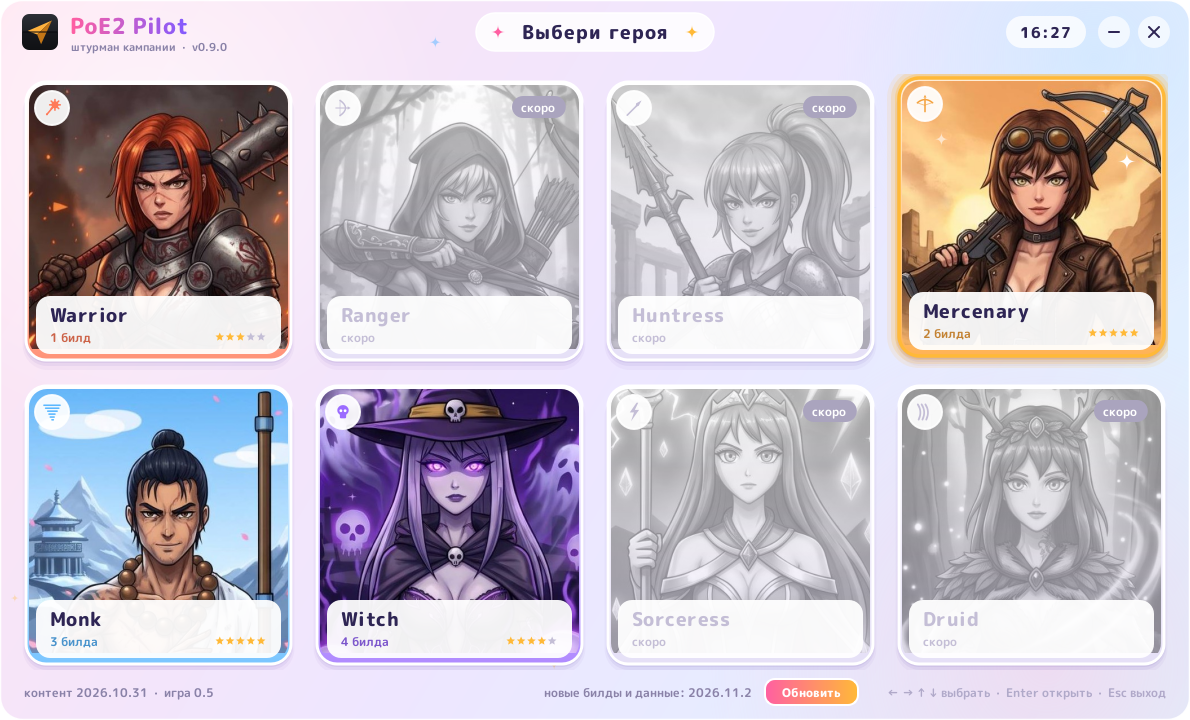
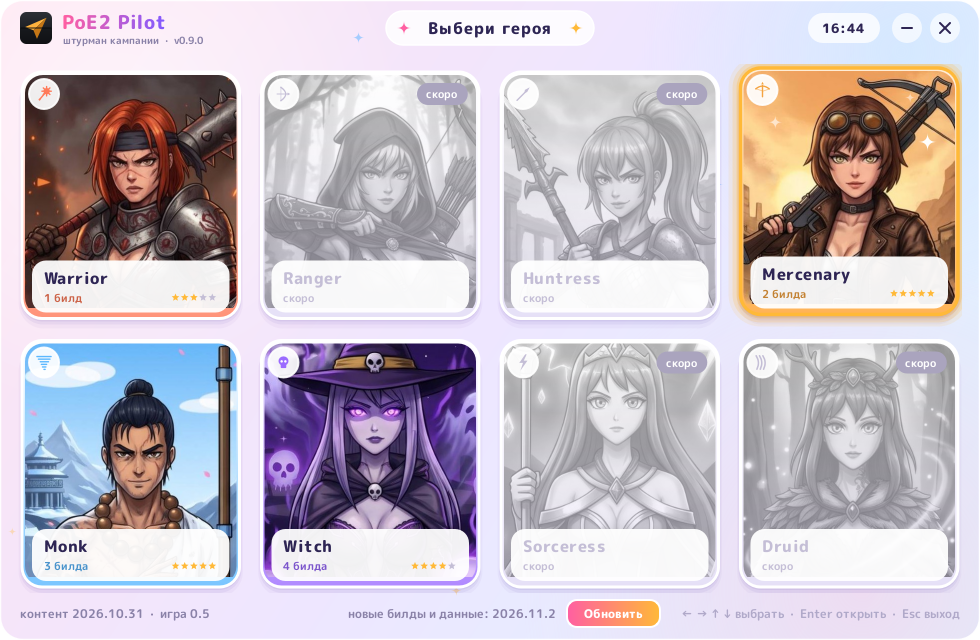
feat(launcher): smaller start window, 980x640 instead of 1190x720
Build card, list rows, title bar, start button and hero plates scaled down
to fit; minimum size 900x640.

diff --git a/src/pilot/launcher/board.py b/src/pilot/launcher/board.py
@@ -28,15 +28,15 @@ from pilot.catalog import Catalog, Entry
 from . import style as S
 from .heroes import HeroPicker, badge, class_art
 
-ROW_H = 84
-ROW_GAP = 10
-HEAD_H = 54
+ROW_H = 72
+ROW_GAP = 8
+HEAD_H = 48
 TWINKLE_MS = 90
 
 
 # ---------------------------------------------------------------- title bar
 class TitleBar(QWidget):
-    H = 64
+    H = 56
 
     def __init__(self, parent: QWidget):
         super().__init__(parent)
@@ -55,27 +55,27 @@ class TitleBar(QWidget):
 
     def _buttons(self) -> dict[str, QRectF]:
         r = self.width() - 20
-        return {"close": QRectF(r - 32, 16, 32, 32), "min": QRectF(r - 72, 16, 32, 32)}
+        return {"close": QRectF(r - 30, 13, 30, 30), "min": QRectF(r - 68, 13, 30, 30)}
 
     def paintEvent(self, _):
         p = QPainter(self)
         p.setRenderHint(QPainter.Antialiasing)
-        brand.draw_logo(p, QRectF(22, 14, 36, 36))
-        f = S.font(22, QFont.ExtraBold, 0.5)
+        brand.draw_logo(p, QRectF(20, 12, 32, 32))
+        f = S.font(19, QFont.ExtraBold, 0.5)
         path = QPainterPath()
-        path.addText(QPointF(70, 34), f, "PoE2 Pilot")
+        path.addText(QPointF(62, 29), f, "PoE2 Pilot")
         p.setPen(Qt.NoPen)
         p.setBrush(S.gradient(path.boundingRect(), S.PINK, QColor(130, 90, 255), horizontal=True))
         p.drawPath(path)
         p.setPen(S.DIM)
-        p.setFont(S.font(11.5, QFont.Bold))
-        p.drawText(QPointF(71, 51), f"штурман кампании  ·  v{__version__}")
+        p.setFont(S.font(10.5, QFont.Bold))
+        p.drawText(QPointF(63, 44), f"штурман кампании  ·  v{__version__}")
 
         if self.title:
-            tf = S.font(19, QFont.ExtraBold, 1)
+            tf = S.font(16.5, QFont.ExtraBold, 1)
             tw = QFontMetricsF(tf).horizontalAdvance(self.title)
-            pill = QRectF((self.width() - tw) / 2 - 46, 13, tw + 92, 38)
-            S.soft_card(p, pill, 19, QColor(255, 255, 255, 215), S.WHITE, 1.5, shadow=False)
+            pill = QRectF((self.width() - tw) / 2 - 42, 11, tw + 84, 34)
+            S.soft_card(p, pill, 17, QColor(255, 255, 255, 215), S.WHITE, 1.5, shadow=False)
             p.setFont(tf)
             p.setPen(S.INK)
             p.drawText(pill, Qt.AlignCenter, self.title)
@@ -84,9 +84,9 @@ class TitleBar(QWidget):
                 S.sparkle(p, QPointF(cx, pill.center().y()), 7, S.PINK if dx < 0 else S.GOLD)
 
         bx = self._buttons()
-        clock = QRectF(bx["min"].left() - 92, 16, 80, 32)
-        S.soft_card(p, clock, 16, QColor(255, 255, 255, 200), None, shadow=False)
-        p.setFont(S.font(15, QFont.ExtraBold, 1))
+        clock = QRectF(bx["min"].left() - 84, 13, 72, 30)
+        S.soft_card(p, clock, 15, QColor(255, 255, 255, 200), None, shadow=False)
+        p.setFont(S.font(13.5, QFont.ExtraBold, 1))
         p.setPen(S.INK)
         p.drawText(clock, Qt.AlignCenter, time.strftime("%H:%M"))
         for name, r in bx.items():
@@ -150,7 +150,7 @@ class BuildList(QWidget):
         self.sel = 0
         self.hover = -1
         self.top = 0
-        self.setMinimumWidth(560)
+        self.setMinimumWidth(480)
 
     def set_entries(self, entries: tuple[Entry, ...], cls: str = "") -> None:
         self.entries, self.cls = entries, cls
@@ -186,13 +186,13 @@ class BuildList(QWidget):
         p = QPainter(self)
         p.setRenderHint(QPainter.Antialiasing)
         if self.cls:
-            badge(p, self.cls, QPointF(30, 24), 20)
-            p.setFont(S.font(24, QFont.ExtraBold, 0.5))
+            badge(p, self.cls, QPointF(28, 22), 18)
+            p.setFont(S.font(21, QFont.ExtraBold, 0.5))
             p.setPen(S.INK)
-            p.drawText(QPointF(60, 33), self.cls)
+            p.drawText(QPointF(56, 30), self.cls)
             w = QFontMetricsF(p.font()).horizontalAdvance(self.cls)
-            S.chip(p, 72 + w, 13, S.builds_word(len(self.entries)), S.font(12, QFont.Bold), S.WHITE,
-                   S.class_color(self.cls), h=24)
+            S.chip(p, 66 + w, 11, S.builds_word(len(self.entries)), S.font(11.5, QFont.Bold), S.WHITE,
+                   S.class_color(self.cls), h=22)
         for k in range(self.visible_rows()):
             i = self.top + k
             if i >= len(self.entries):
@@ -216,30 +216,30 @@ class BuildList(QWidget):
                 p.drawRoundedRect(r.adjusted(-k, -k, k, k), 18 + k, 18 + k)
         border = S.PINK if sel else QColor(200, 185, 255) if hov else S.WHITE
         S.soft_card(p, r, 18, QColor(255, 255, 255, 240 if sel else 215), border, 2.5 if sel else 1.5)
-        rarity_badge(p, QRectF(r.left() + 14, r.top() + 14, 56, 56), e)
+        rarity_badge(p, QRectF(r.left() + 12, r.top() + 12, 48, 48), e)
 
-        x = r.left() + 86
-        right = r.right() - 150
-        p.setFont(S.font(17, QFont.ExtraBold))
+        x = r.left() + 74
+        right = r.right() - 124
+        p.setFont(S.font(15.5, QFont.ExtraBold))
         p.setPen(S.INK)
         fm = QFontMetricsF(p.font())
         title = fm.elidedText(e.title, Qt.ElideRight, right - x - 10)
-        p.drawText(QPointF(x, r.top() + 33), title)
+        p.drawText(QPointF(x, r.top() + 28), title)
         if e.file == self.last:
-            S.chip(p, x + fm.horizontalAdvance(title) + 10, r.top() + 15, "последний",
+            S.chip(p, x + fm.horizontalAdvance(title) + 10, r.top() + 12, "последний",
                    S.font(10.5, QFont.Bold), S.WHITE, S.PINK, h=20)
-        S.chips(p, QRectF(x, r.top() + 44, right - x, 24), [e.role, *e.skills], S.font(11.5, QFont.Bold),
-                S.INK, S.LAVENDER, h=24)
+        S.chips(p, QRectF(x, r.top() + 38, right - x, 22), [e.role, *e.skills], S.font(11, QFont.Bold),
+                S.INK, S.LAVENDER, h=22)
 
         tag, n, label = S.rarity(e)[:3]
-        sx = r.right() - 132
-        S.stars(p, sx, r.top() + 30, 7.5, n)
+        sx = r.right() - 110
+        S.stars(p, sx, r.top() + 24, 6.5, n)
         p.setFont(S.font(12, QFont.Bold))
         p.setPen(S.PINK.darker(115) if tag == "SSR" else S.DIM)
-        p.drawText(QRectF(sx, r.top() + 44, 120, 18), Qt.AlignLeft, label)
+        p.drawText(QRectF(sx, r.top() + 36, 104, 18), Qt.AlignLeft, label)
         p.setFont(S.font(11, QFont.Bold))
         p.setPen(S.DIM)
-        p.drawText(QRectF(sx, r.top() + 60, 120, 16), Qt.AlignLeft, f"патч {e.patch}")
+        p.drawText(QRectF(sx, r.top() + 52, 104, 16), Qt.AlignLeft, f"патч {e.patch}")
         if sel:
             tip = QPainterPath(QPointF(r.left() - 12, r.center().y() - 9))
             tip.lineTo(QPointF(r.left() - 3, r.center().y()))
@@ -279,8 +279,8 @@ class BuildList(QWidget):
 
 # ---------------------------------------------------------------- hero card of the build
 class HeroCard(QWidget):
-    W, H = 384, 548
-    BANNER = 214
+    W, H = 330, 462
+    BANNER = 168
 
     def __init__(self, catalog: Catalog, parent: QWidget):
         super().__init__(parent)
@@ -345,49 +345,49 @@ class HeroCard(QWidget):
         p.drawText(QRectF(banner.left() + 14, banner.top() + 80, 160, 20), Qt.AlignLeft, S.rarity(e)[2].upper())
 
         L, R = card.left() + 22, card.right() - 22
-        y = banner.bottom() + 36
-        p.setFont(S.font(22, QFont.ExtraBold))
+        y = banner.bottom() + 30
+        p.setFont(S.font(19, QFont.ExtraBold))
         p.setPen(S.INK)
         p.drawText(QPointF(L, y), QFontMetricsF(p.font()).elidedText(e.role, Qt.ElideRight, R - L))
-        p.setFont(S.font(13, QFont.Bold))
+        p.setFont(S.font(12, QFont.Bold))
         p.setPen(S.DIM)
         sub = e.title if not e.ascendancy else f"{e.title}  ·  {e.cls}"
-        p.drawText(QPointF(L, y + 22), QFontMetricsF(p.font()).elidedText(sub, Qt.ElideRight, R - L))
+        p.drawText(QPointF(L, y + 19), QFontMetricsF(p.font()).elidedText(sub, Qt.ElideRight, R - L))
 
-        y += 40
+        y += 32
         third = (R - L) / 3
         for k, (lab, val) in enumerate((("автор", e.author), ("патч", e.patch), ("версия", str(e.rev)))):
             x = L + k * third
             p.setFont(S.font(11, QFont.Bold))
             p.setPen(S.DIM)
             p.drawText(QPointF(x, y + 12), lab)
-            p.setFont(S.font(14, QFont.ExtraBold))
+            p.setFont(S.font(13, QFont.ExtraBold))
             p.setPen(S.INK)
-            p.drawText(QPointF(x, y + 32), QFontMetricsF(p.font()).elidedText(val, Qt.ElideRight, third - 8))
+            p.drawText(QPointF(x, y + 29), QFontMetricsF(p.font()).elidedText(val, Qt.ElideRight, third - 8))
 
-        y += 46
+        y += 38
         p.setFont(S.font(11, QFont.Bold))
         p.setPen(S.DIM)
         p.drawText(QPointF(L, y + 10), "скиллы")
-        y += 16 + S.chips(p, QRectF(L, y + 16, R - L, 54), e.skills, S.font(12, QFont.Bold), S.INK, S.LAVENDER,
-                          h=24)
-        y += 12
+        y += 14 + S.chips(p, QRectF(L, y + 15, R - L, 48), e.skills, S.font(11, QFont.Bold), S.INK, S.LAVENDER,
+                          h=22)
+        y += 10
         p.setFont(S.font(11, QFont.Bold))
         p.setPen(S.DIM)
         p.drawText(QPointF(L, y + 10), "обязательно пройти")
-        y += 16 + S.chips(p, QRectF(L, y + 16, R - L, 54), e.musts or ("ничего",), S.font(12, QFont.Bold),
-                          S.PINK.darker(110), QColor(255, 236, 246), S.PINK, h=24)
+        y += 14 + S.chips(p, QRectF(L, y + 15, R - L, 48), e.musts or ("ничего",), S.font(11, QFont.Bold),
+                          S.PINK.darker(110), QColor(255, 236, 246), S.PINK, h=22)
         if e.note:
-            p.setFont(S.font(12))
+            p.setFont(S.font(11.5))
             p.setPen(S.DIM)
-            p.drawText(QRectF(L, y + 12, R - L, card.bottom() - y - 46), Qt.TextWordWrap, e.note)
+            p.drawText(QRectF(L, y + 10, R - L, card.bottom() - y - 40), Qt.TextWordWrap, e.note)
 
         self.link = QRectF()
         if e.source:
-            p.setFont(S.font(13, QFont.ExtraBold))
+            p.setFont(S.font(12, QFont.ExtraBold))
             txt = "открыть гайд ↗"
             w = QFontMetricsF(p.font()).horizontalAdvance(txt)
-            self.link = QRectF(R - w, card.bottom() - 34, w, 22)
+            self.link = QRectF(R - w, card.bottom() - 30, w, 20)
             p.setPen(S.PINK)
             p.drawText(self.link, Qt.AlignLeft | Qt.AlignVCenter, txt)
 
@@ -403,7 +403,7 @@ class HeroCard(QWidget):
 class StartButton(QAbstractButton):
     def __init__(self, parent: QWidget):
         super().__init__(parent)
-        self.setFixedHeight(66)
+        self.setFixedHeight(58)
         self.setCursor(Qt.PointingHandCursor)
         self.phase = 0.0
 
@@ -442,7 +442,7 @@ class StartButton(QAbstractButton):
             p.setBrush(QColor(255, 255, 255, 70))
             p.drawPath(shine)
             p.restore()
-        p.setFont(S.font(23, QFont.ExtraBold, 4))
+        p.setFont(S.font(20, QFont.ExtraBold, 4))
         p.setPen(S.WHITE)
         p.drawText(r, Qt.AlignCenter, "СТАРТ")
         tw = QFontMetricsF(p.font()).horizontalAdvance("СТАРТ")
@@ -519,13 +519,13 @@ class BoardWindow(QWidget):
         side.addStretch(1)
         flight = QWidget(self)
         body = QHBoxLayout(flight)
-        body.setContentsMargins(18, 8, 18, 4)
-        body.setSpacing(18)
+        body.setContentsMargins(14, 6, 14, 2)
+        body.setSpacing(12)
         body.addWidget(self.builds, 1)
         body.addLayout(side)
         hero_page = QWidget(self)
         hl = QVBoxLayout(hero_page)
-        hl.setContentsMargins(22, 10, 22, 6)
+        hl.setContentsMargins(18, 8, 18, 4)
         hl.addWidget(self.heroes, 1)
         self.pages = QStackedWidget(self)
         self.pages.addWidget(hero_page)
@@ -547,14 +547,14 @@ class BoardWindow(QWidget):
         self.action.clicked.connect(self._act)
         self.back.clicked.connect(self.show_heroes)
         foot = QHBoxLayout()
-        foot.setContentsMargins(24, 2, 24, 14)
-        foot.setSpacing(12)
+        foot.setContentsMargins(20, 2, 20, 12)
+        foot.setSpacing(10)
         foot.addWidget(self.back)
         foot.addWidget(self.info)
         foot.addStretch(1)
         foot.addWidget(self.news)
         foot.addWidget(self.action)
-        foot.addSpacing(16)
+        foot.addSpacing(10)
         foot.addWidget(self.keys)
 
         root = QVBoxLayout(self)
@@ -563,8 +563,8 @@ class BoardWindow(QWidget):
         root.addWidget(self.bar)
         root.addWidget(self.pages, 1)
         root.addLayout(foot)
-        self.resize(1190, 720)
-        self.setMinimumSize(1100, 660)
+        self.resize(980, 640)
+        self.setMinimumSize(900, 640)
         self.show_heroes()
 
         self.timer = QTimer(self)                         # twinkles and the start button's shine

diff --git a/src/pilot/launcher/heroes.py b/src/pilot/launcher/heroes.py
@@ -20,7 +20,7 @@ from . import style as S
 # every class of the game, in the order of the character select screen; builds decide which light up
 CLASSES = ("Warrior", "Ranger", "Huntress", "Mercenary", "Monk", "Witch", "Sorceress", "Druid")
 COLS = 4
-GAP = 18
+GAP = 14
 
 
 @lru_cache(maxsize=64)
@@ -207,7 +207,7 @@ class HeroPicker(QWidget):
         clip.addRoundedRect(r.adjusted(3, 3, -3, -3), 18, 18)
         p.save()
         p.setClipPath(clip)
-        plate_h = 58
+        plate_h = 52
         side = int(max(r.width(), r.height()))            # the scene fills the card, the face stays in view
         art = class_art(c, side) if live else class_art_grey(c, side)
         if art is not None:
@@ -223,18 +223,18 @@ class HeroPicker(QWidget):
 
         plate = QRectF(r.left() + 10, r.bottom() - plate_h - 6, r.width() - 20, plate_h)
         S.soft_card(p, plate, 14, QColor(255, 255, 255, 240), None, shadow=False)
-        p.setFont(S.font(19, QFont.ExtraBold, 0.5))
+        p.setFont(S.font(16.5, QFont.ExtraBold, 0.5))
         p.setPen(S.INK if live else S.FAINT)
-        p.drawText(plate.adjusted(14, 6, -10, -26), Qt.AlignLeft | Qt.AlignVCenter, c)
-        p.setFont(S.font(12, QFont.Bold))
+        p.drawText(plate.adjusted(12, 5, -10, -23), Qt.AlignLeft | Qt.AlignVCenter, c)
+        p.setFont(S.font(11, QFont.Bold))
         p.setPen(S.class_color(c).darker(125) if live else S.FAINT)
-        p.drawText(plate.adjusted(14, 30, -10, -6), Qt.AlignLeft | Qt.AlignVCenter, S.builds_word(len(builds)))
+        p.drawText(plate.adjusted(12, 27, -10, -5), Qt.AlignLeft | Qt.AlignVCenter, S.builds_word(len(builds)))
         if live:
             best = max(S.rarity(e)[1] for e in builds)
-            S.stars(p, plate.right() - 14 - 5 * 4.5 * 2.3, plate.top() + 41, 4.5, best)
-        badge(p, c, QPointF(r.left() + 26, r.top() + 26), 17, live)
+            S.stars(p, plate.right() - 12 - 5 * 4 * 2.3, plate.top() + 37, 4, best)
+        badge(p, c, QPointF(r.left() + 22, r.top() + 22), 15, live)
         if not live:
-            S.chip(p, r.right() - 70, r.top() + 14, "скоро", S.font(12, QFont.Bold), S.WHITE,
+            S.chip(p, r.right() - 62, r.top() + 11, "скоро", S.font(11, QFont.Bold), S.WHITE,
                    QColor(170, 164, 190))
 
     def mouseMoveEvent(self, e):
